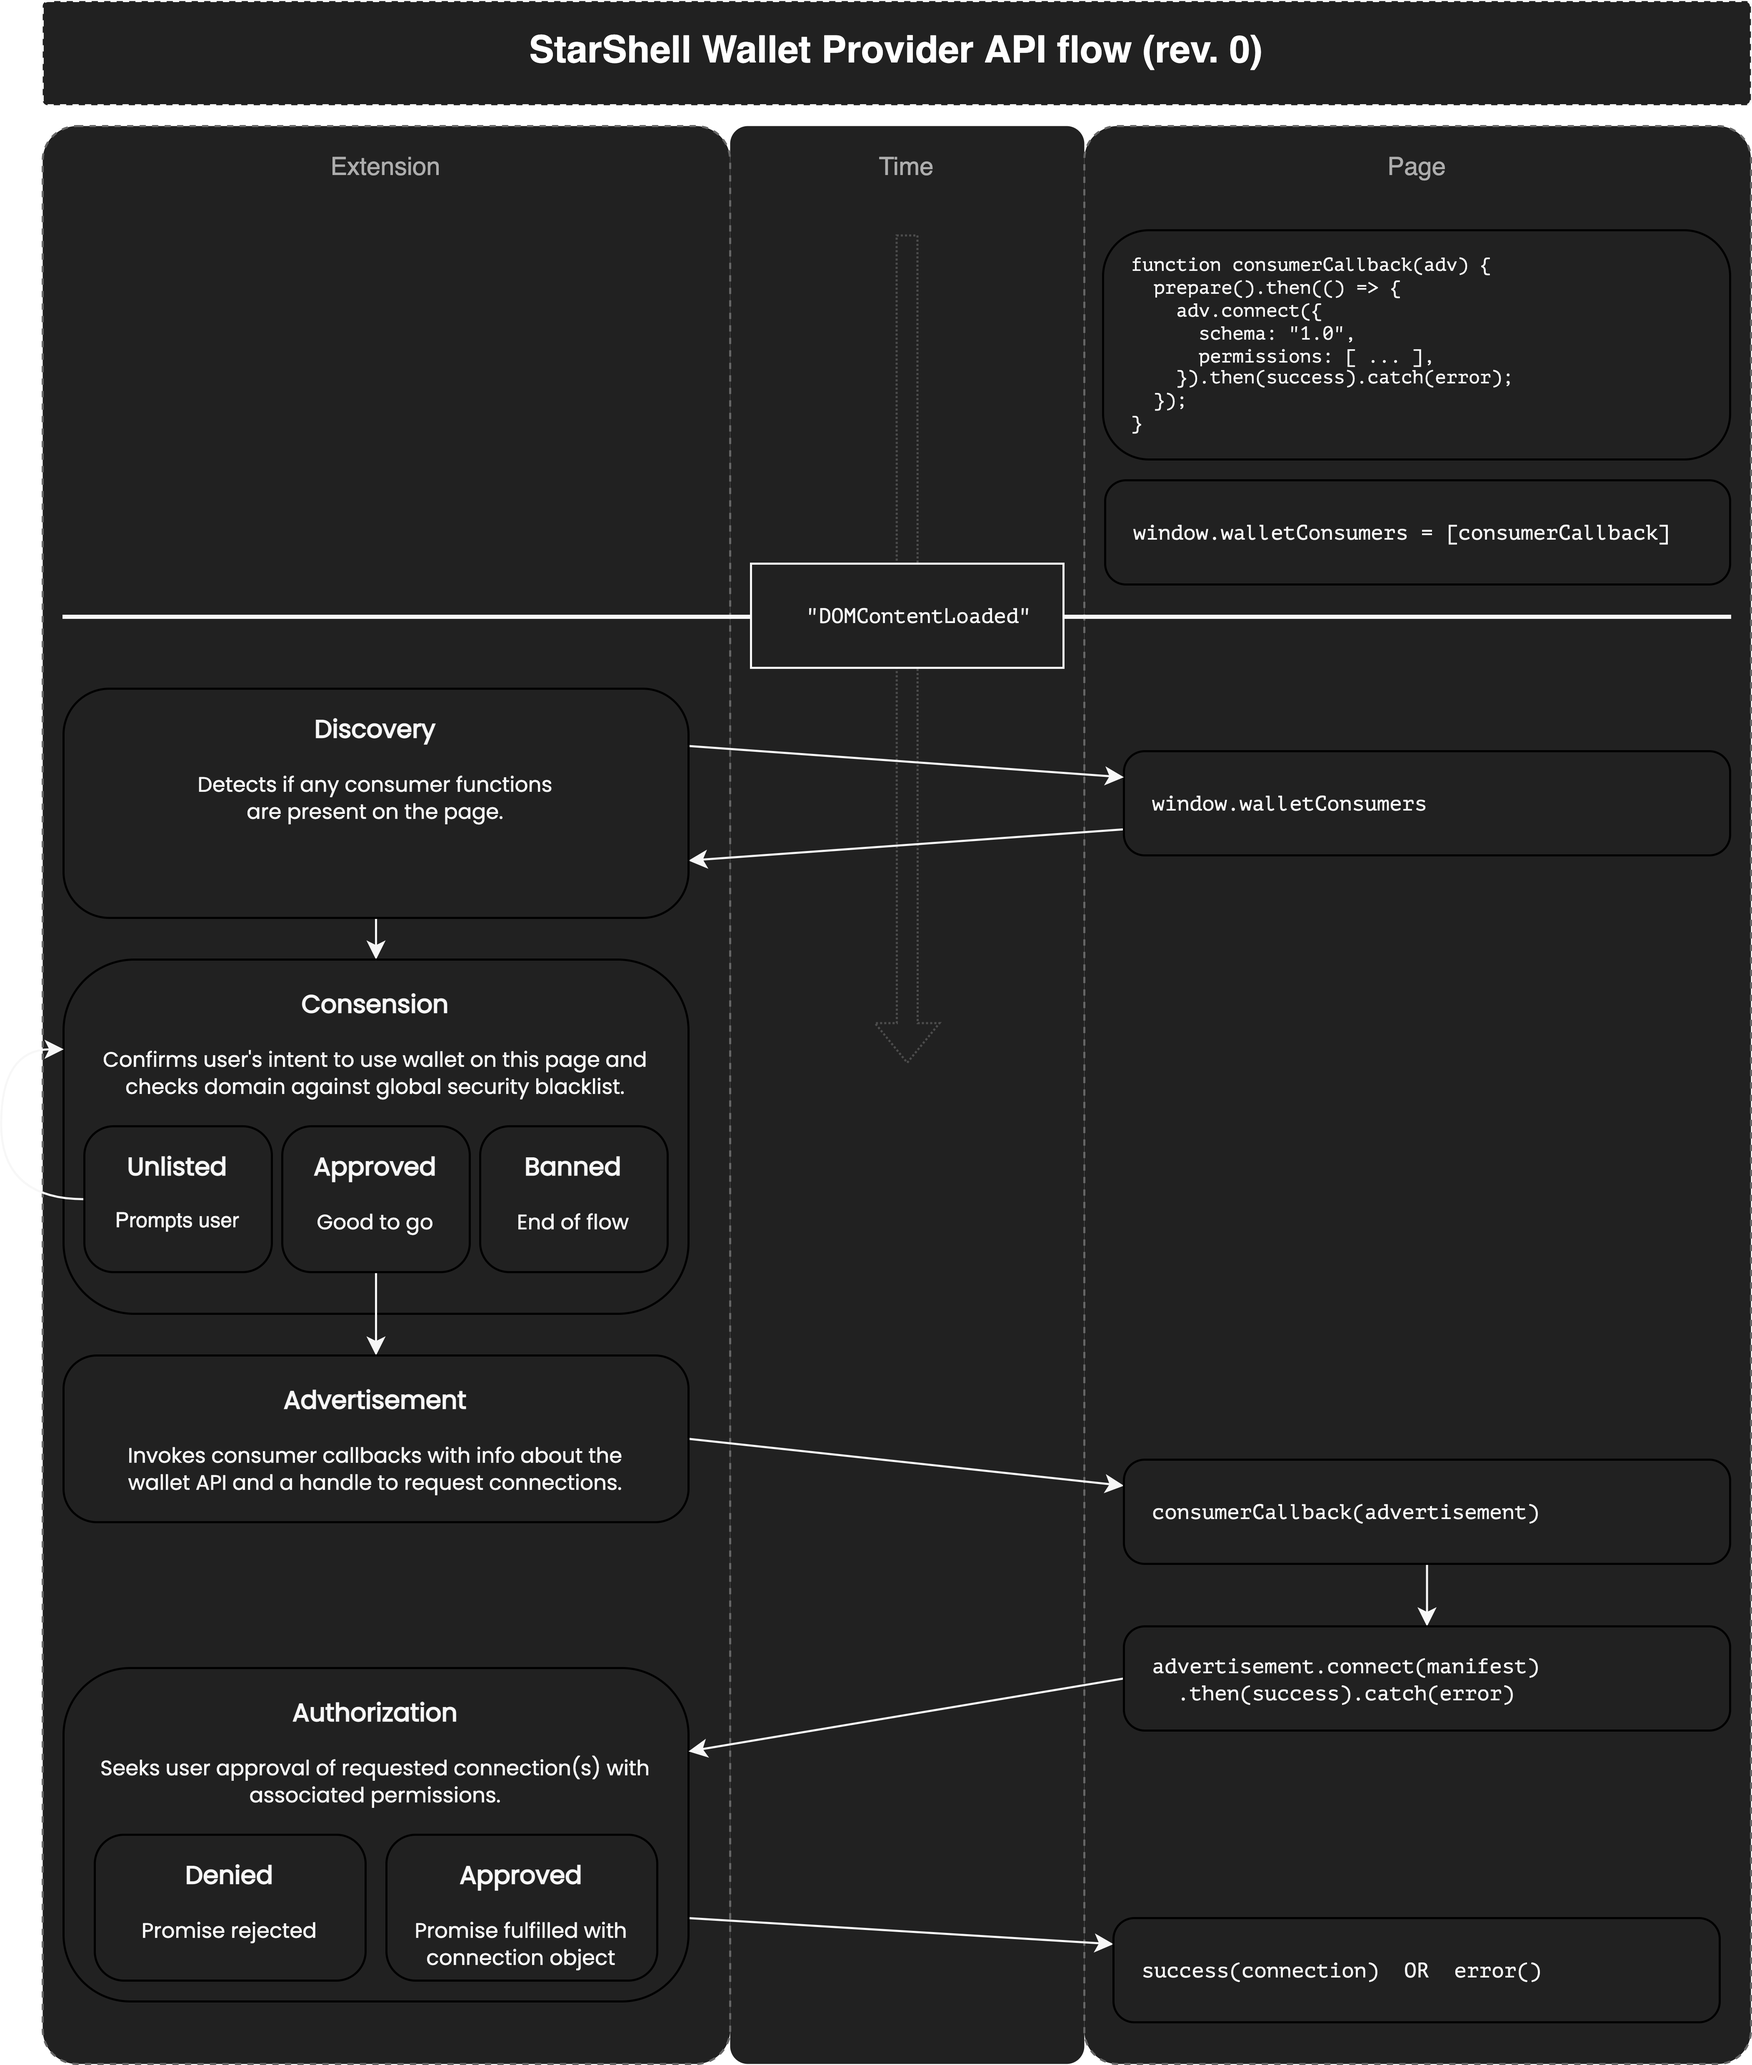
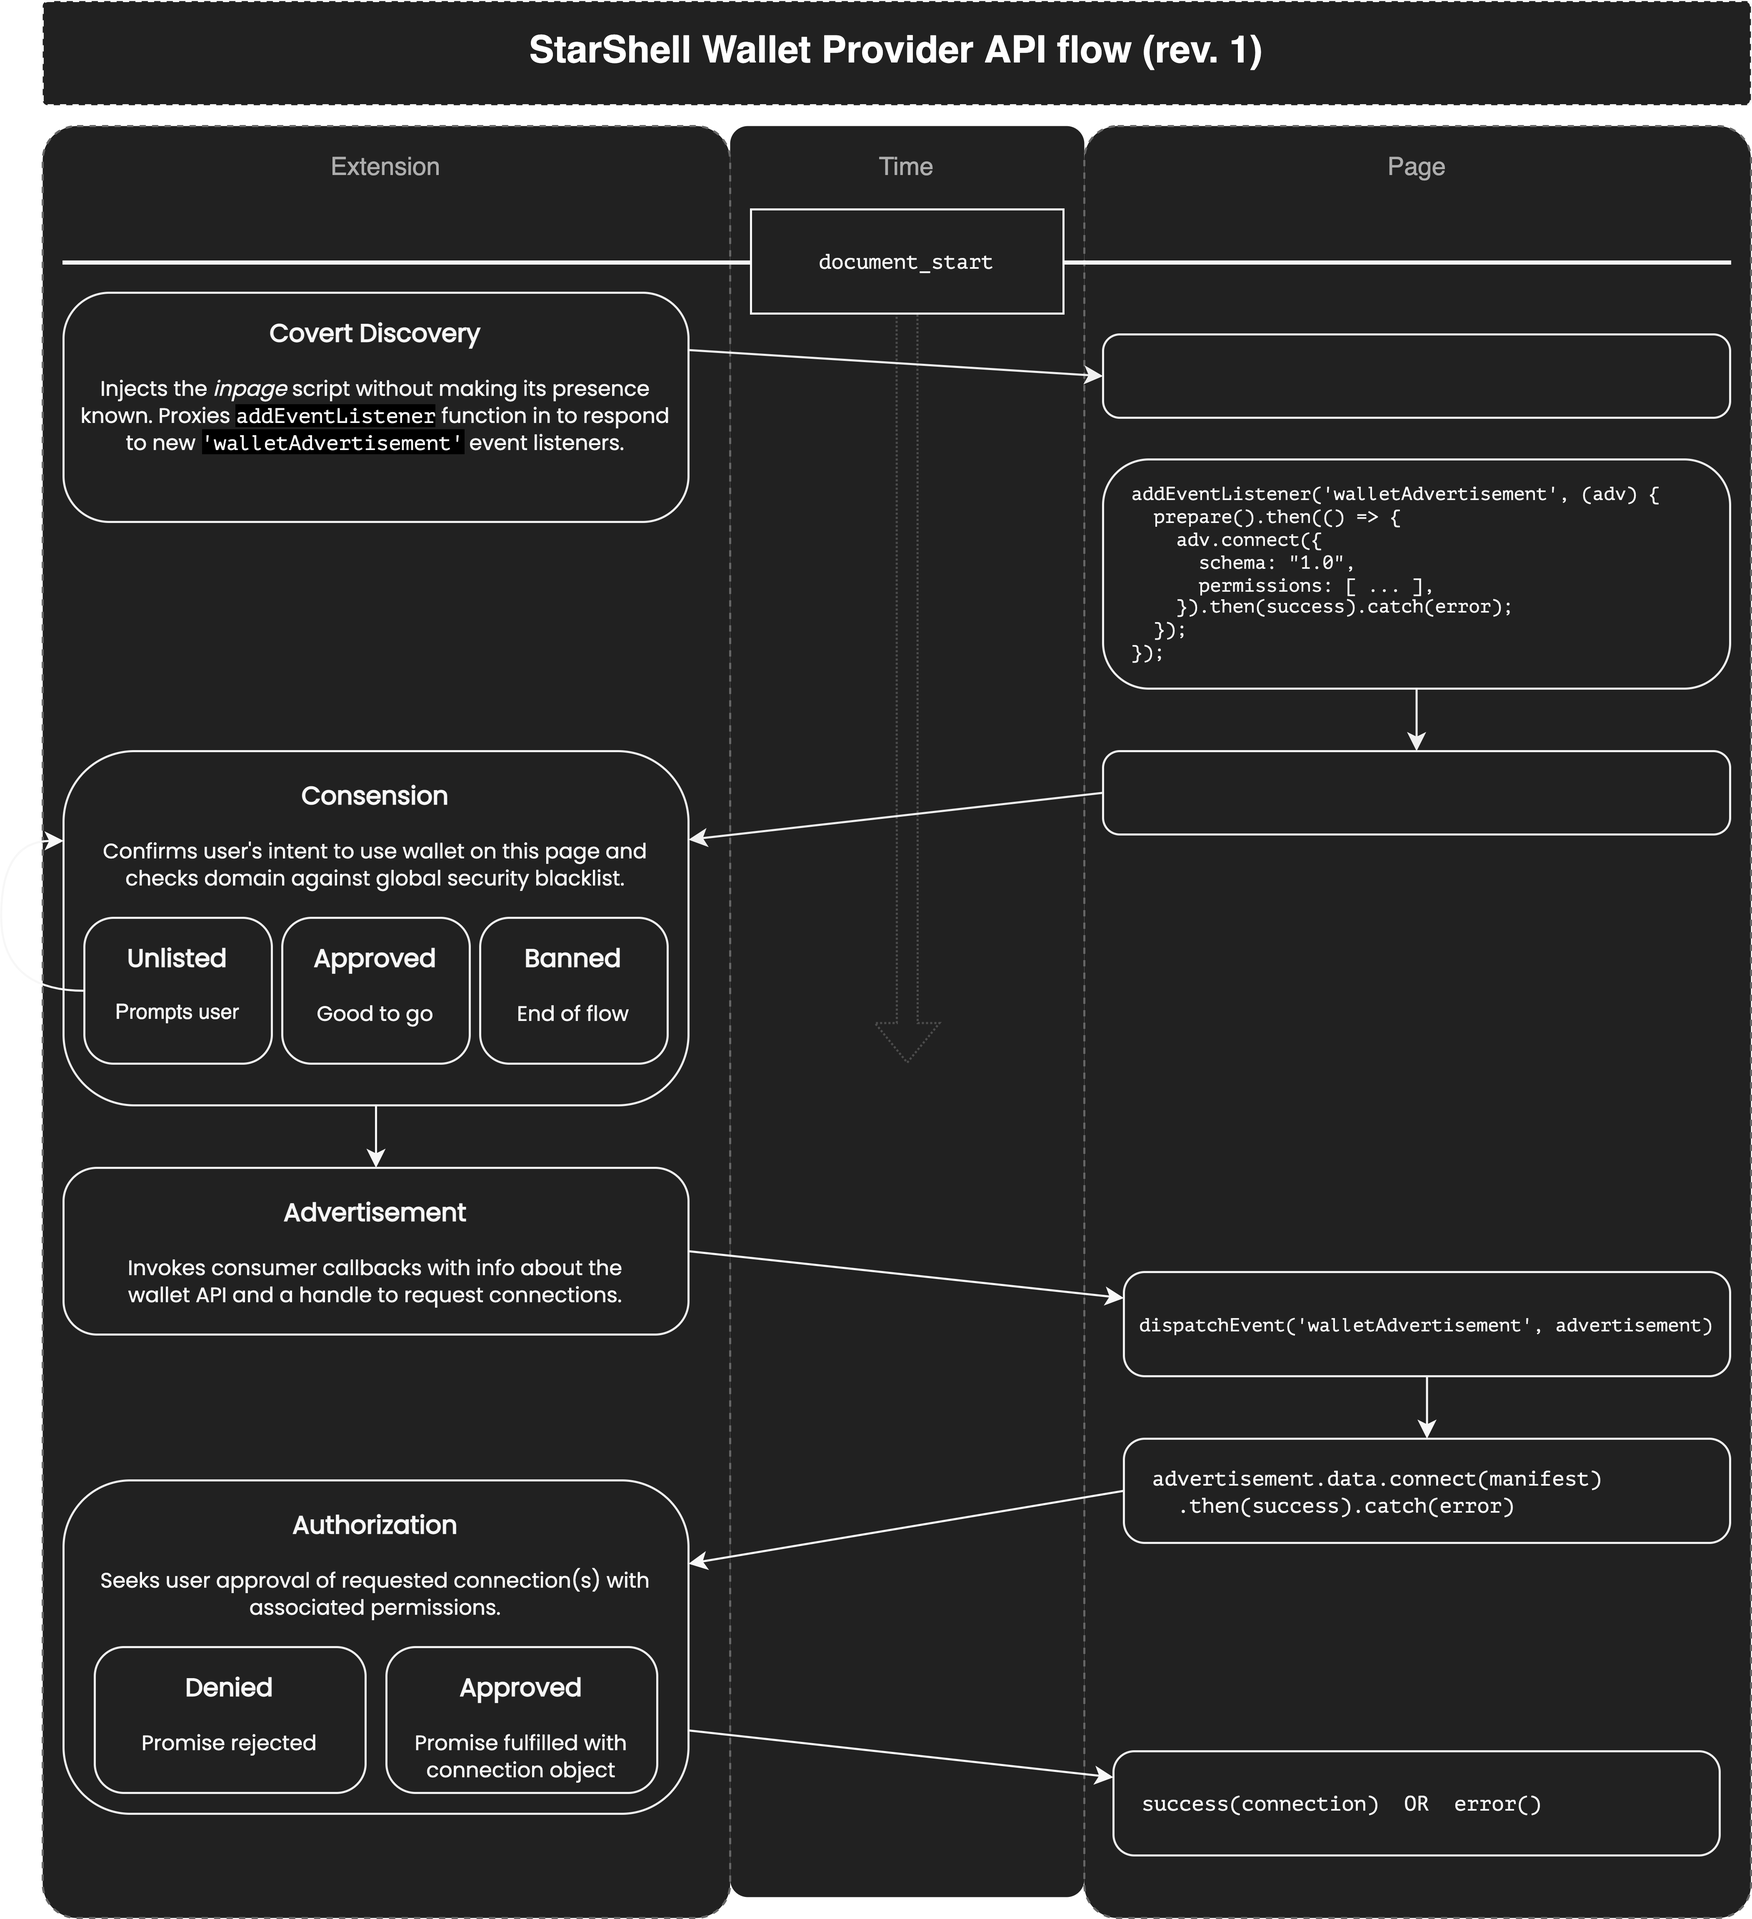
covert discovery

diff --git a/StarShell-Wallet-API-Primer.md b/StarShell-Wallet-API-Primer.md
@@ -1,4 +1,4 @@
-# StarShell Wallet API Primer v0.1
+# StarShell Wallet API Primer v0.2
 
 This article is intended for Web3 front-end dApp developers.
 
@@ -14,9 +14,25 @@ The current practice of exposing wallet APIs by injecting a variable into the gl
  1. It degrades user privacy. Any website can see these variables, deduce which extensions are installed, and use that to enhance browser fingerprinting or targeted advertising.
  2. It assumes the user only has one wallet extension they'd like to use with some chain, and extensions may end up competing over the same variable, e.g., `window.ethereum`, `window.solana`, or in our case of providing compatibility with Keplr, `window.keplr`.
 
-Given these issues, the StarShell extension will not inject any new variables into the global `window` scope. Instead, sites must explicitly express interest in connecting to a wallet by declaring or pushing to an array of callback functions in the global `window` scope.
+Given these issues, the StarShell extension will not inject any new variables into the global `window` scope. Instead, sites must explicitly express interest in connecting to a wallet by adding an event listener for `'walletAdvertisement'` to the top `window` object.
 
 You can think of this change as an inversion of control when compared to the traditional approach. This allows the user/wallet to silently ignore sites that only intend to snoop this information from the browser.
+
+_Example:_
+```html
+<script>
+   window.addEventListener('walletAdvertisement', (event) => {
+      const advertisement = event.data;
+
+      if(advertisement.features.includes(necessaryFeature)) {
+         advertisement.connect({
+            schema: '1.0',
+            chain: '',
+         });
+      }
+   });
+</script>
+```
 
 Here is a simplified process flow diagram to illustrate:
 
